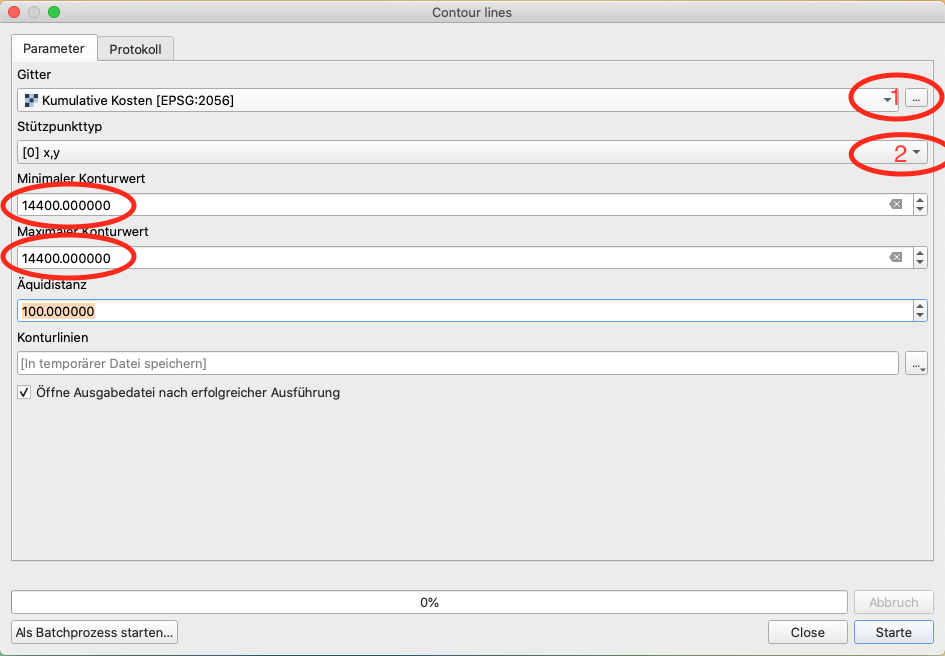
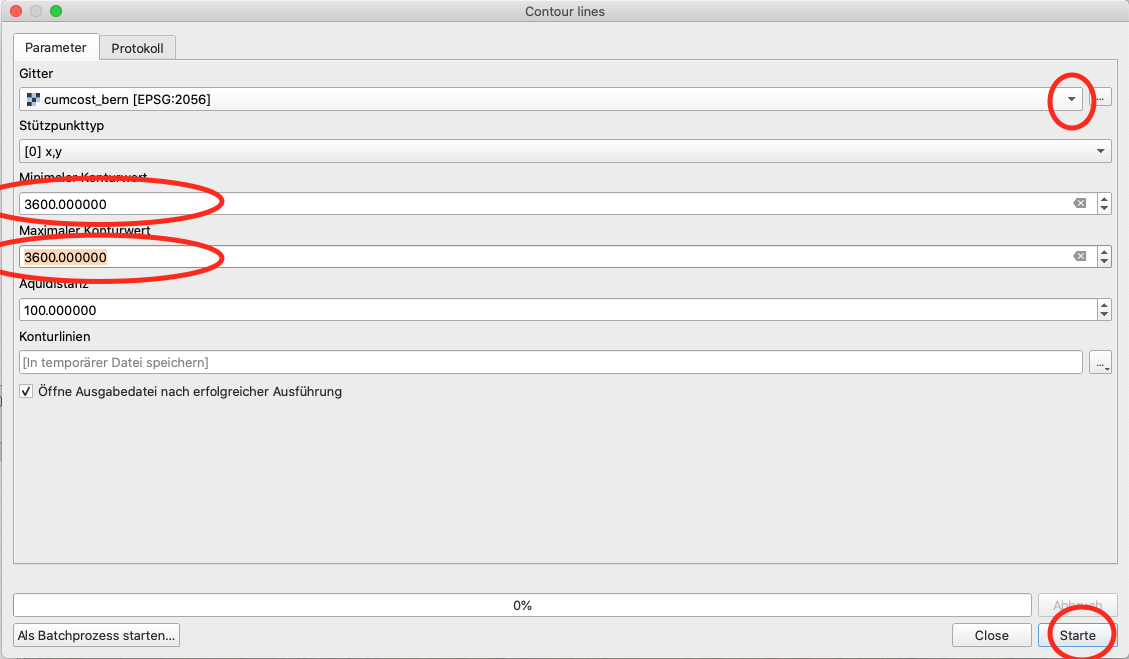
exchanged 4h with 1h example

diff --git a/11/index.html b/11/index.html
@@ -259,7 +259,7 @@ Least cost corridors can be used instead of a single least cost path to connect 
 To get how far a pedestrian can walk in a given time, we can use the Contour tool, this time from SAGA:
 
 * here we can set maximum and minimum value for the contour line
-* the walking time is in seconds, so eg. 4 hours is equivalent with 4 x 60 x 60 = 14400 seconds
+* the walking time is in seconds, so eg. 1 hours is equivalent with 1 x 60 x 60 = 3600 seconds
 
 .pull-left[
 
@@ -267,7 +267,7 @@ To get how far a pedestrian can walk in a given time, we can use the Contour too
 * Click on 'Contour lines' tool from SAGA
 * Set 'Cumulative Costs' as layer
 * Set x,y as 'Support point type'
-* Set maximum and minimum to 14400
+* Set maximum and minimum to **3600**
 * click on 'Run'
 
 .center[
@@ -281,11 +281,11 @@ To get how far a pedestrian can walk in a given time, we can use the Contour too
 ---
 ## Walking distance results
 
-* You should get a line showing the extent of a walking time of 5h
+* You should get a line showing the extent of a walking time of 1h
 * You can make it stick out more using Symbology (here: neon glow)
 * If you make the actual cost layer invisible, you can compare with the base map
-* In 4 hours I could get eg. to Kirchdorf
-* Compare with Google Maps: between 3h 50 min and 4h 10 min
+* In 1 hours I could get eg. to Kehrsatz
+* Compare with Google Maps: 1h 10 min including river crossing
 * or try it out yourself ;-)
 
 .center[
